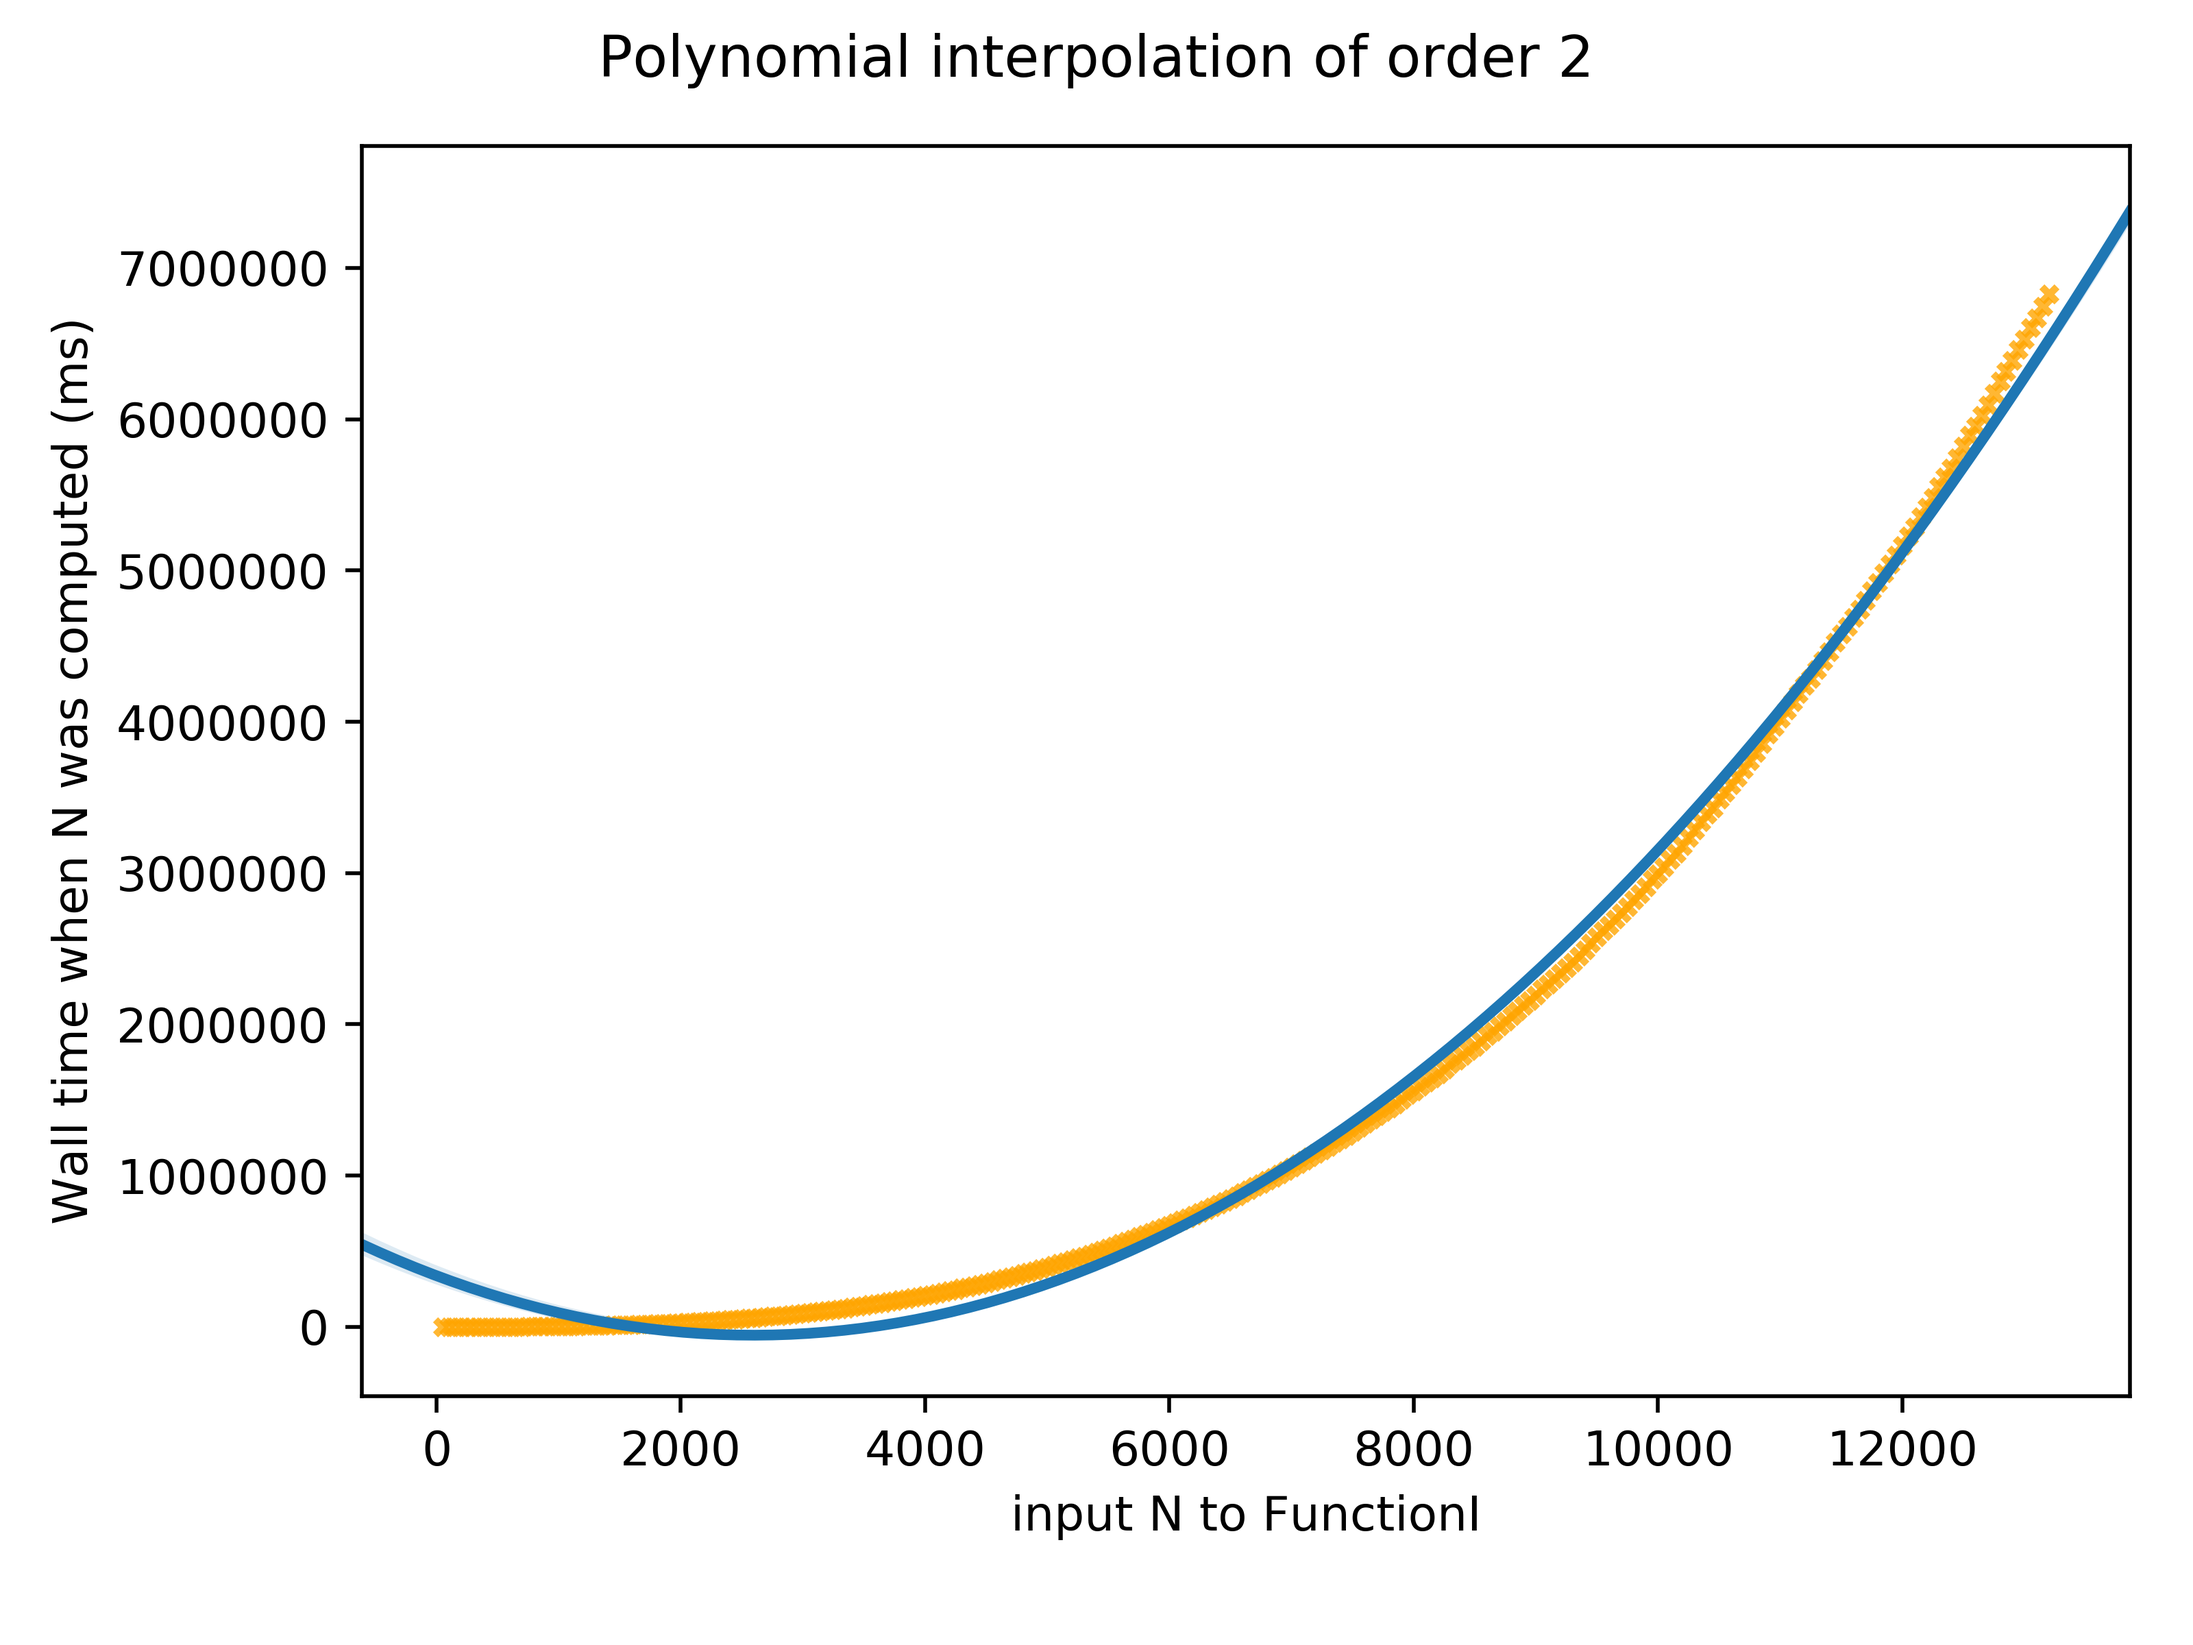
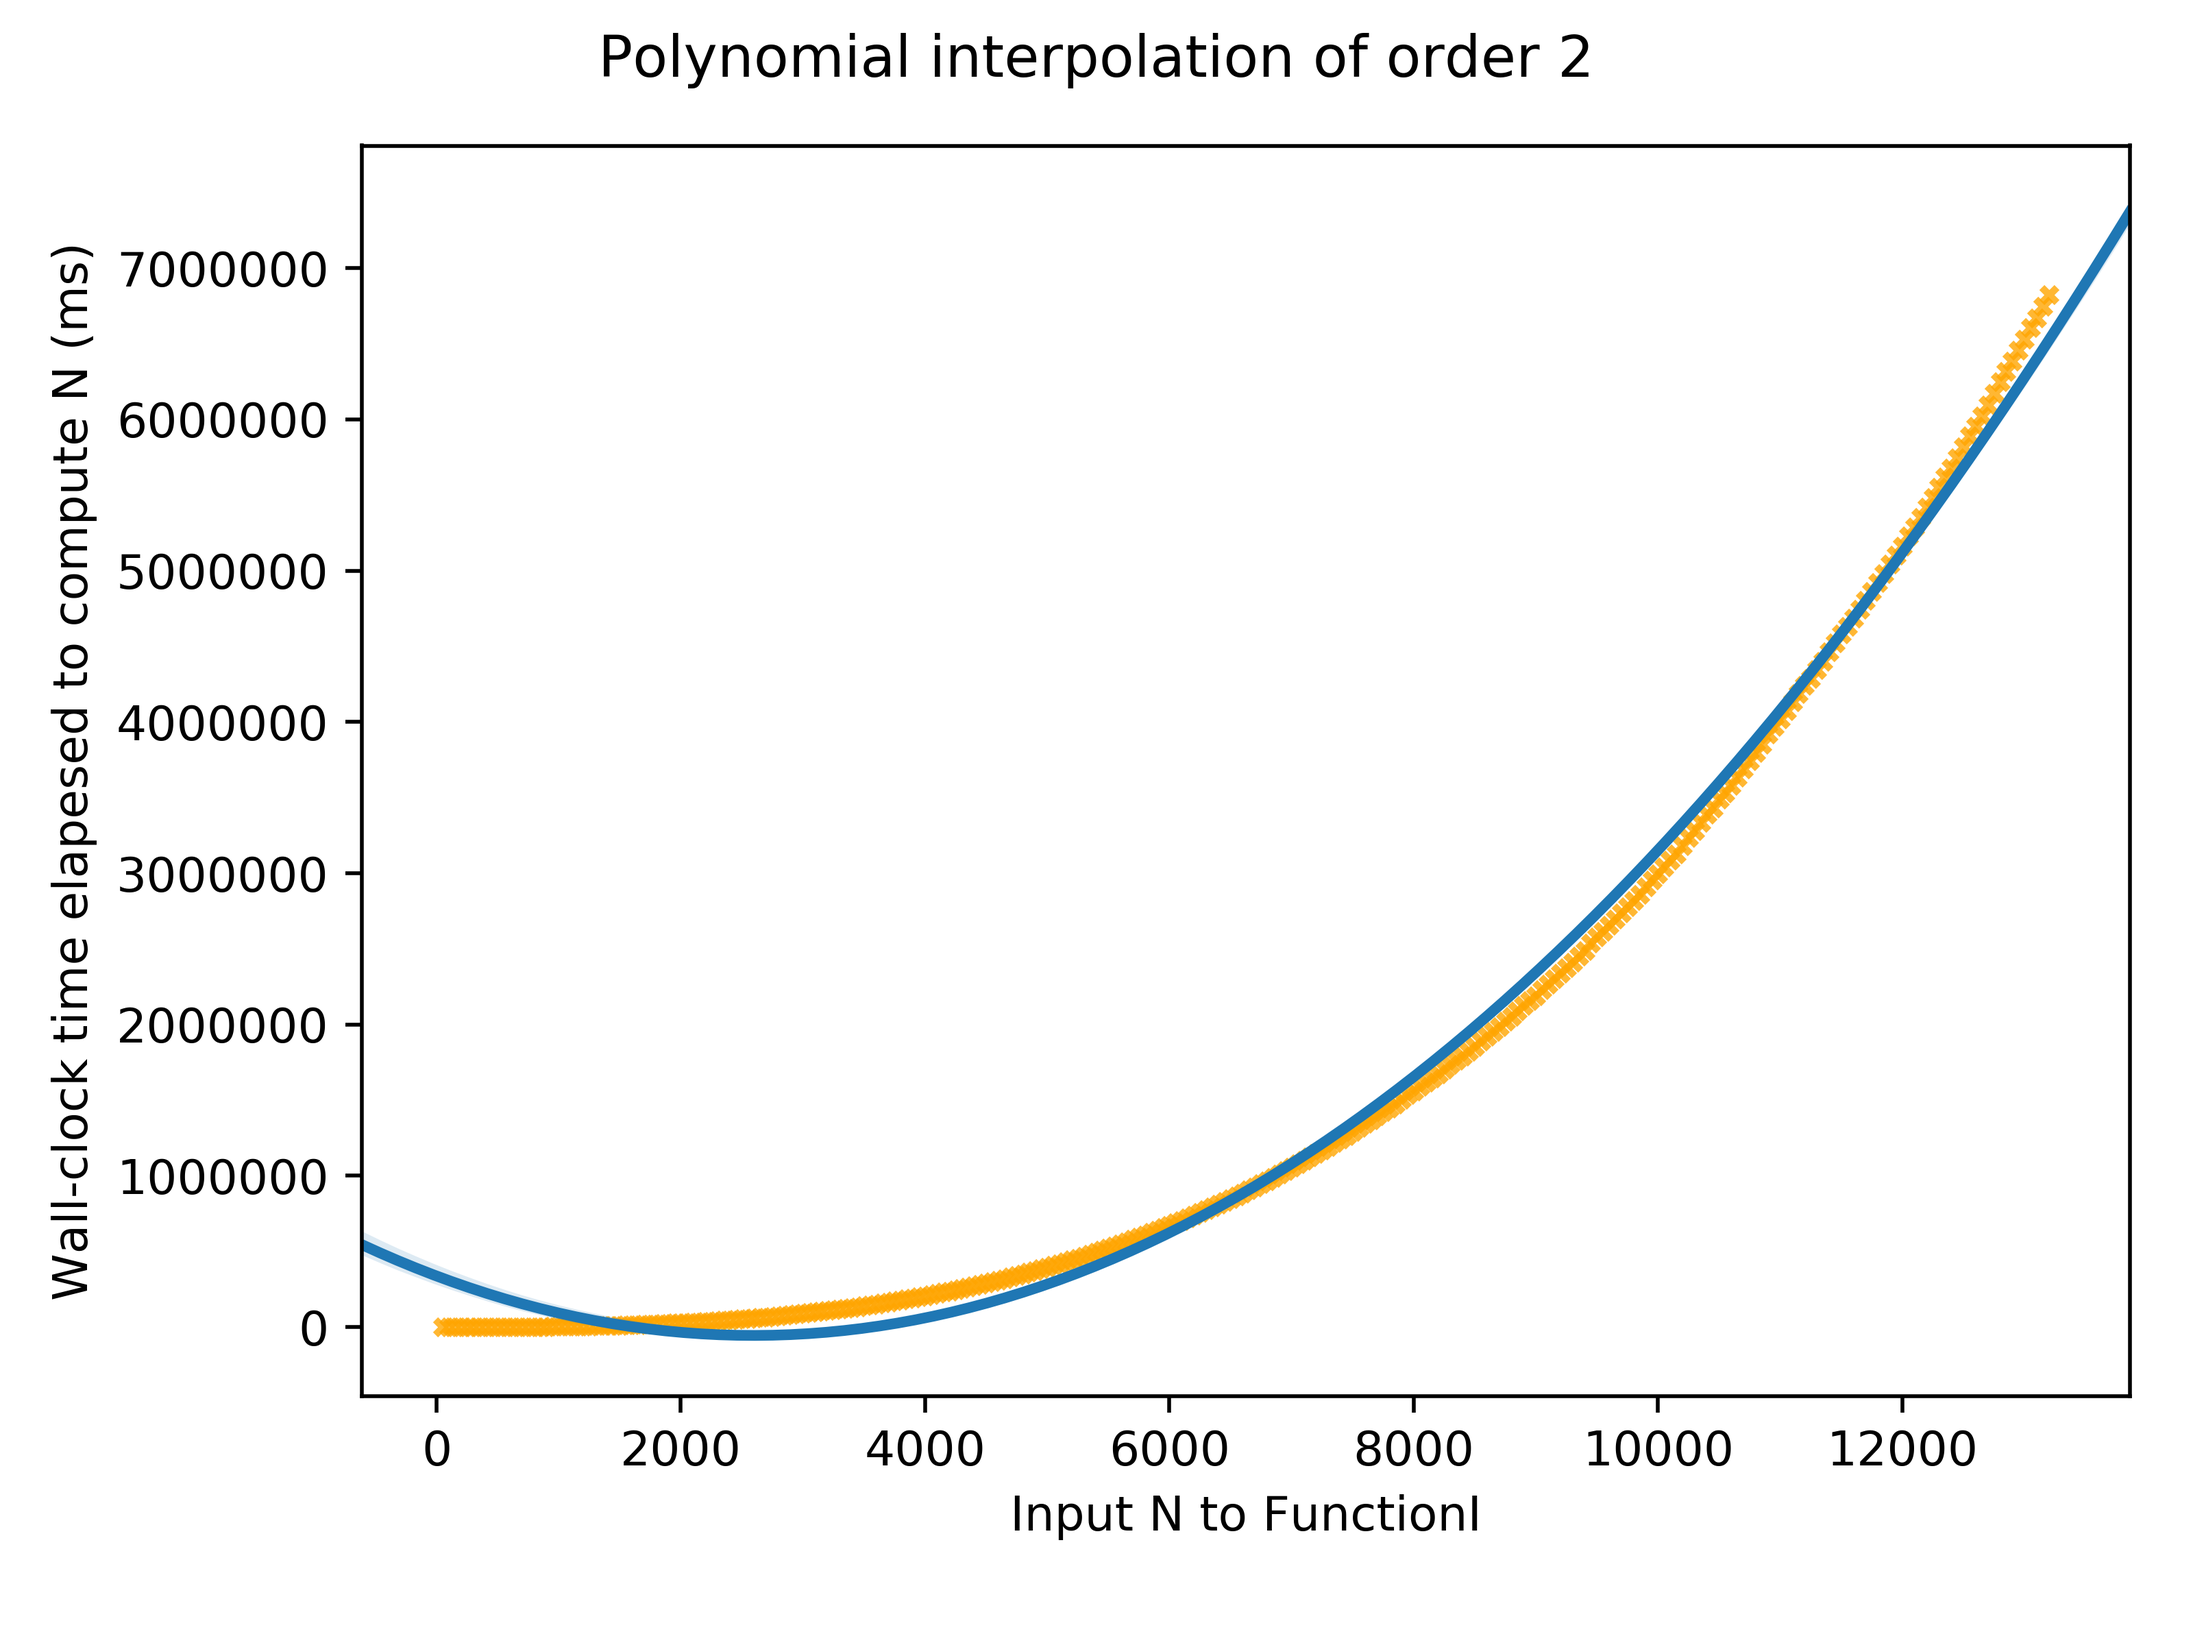
[project euler]: p0451: added readme; improved plotting slightly

Changed region(s): [[0.0312, 0.1562, 0.0625, 0.7812]]

diff --git a/code/project_euler/id_0451/plot_modular_inverses_data.py b/code/project_euler/id_0451/plot_modular_inverses_data.py
@@ -1,7 +1,7 @@
 """Plot the profile of our current FunctionI function.
 
 Data was obtained by:
-`scala ./modular_inverses.scala > data.txt`
+`scala ./modular_inverses.scala > modular_inverses_data.txt`
 
 Referent to code of './modular_inverses.scala' in:
 Git commit:
@@ -43,8 +43,8 @@ def main():
                                  "color": "orange",
                                  })
         fig.suptitle('Polynomial interpolation of order ' + str(INTERP_ORDER))
-        ax.set_xlabel('input N to FunctionI')
-        ax.set_ylabel('Wall time when N was computed (ms)')
+        ax.set_xlabel('Input N to FunctionI')
+        ax.set_ylabel('Wall-clock time elapesed to compute N (ms)')
 
         # import ipdb; ipdb.set_trace()  # XXX BREAKPOINT
         fig.tight_layout(rect=[0, 0.03, 1, 0.95])

diff --git a/code/project_euler/id_0451/readme.md b/code/project_euler/id_0451/readme.md
@@ -1,0 +1,31 @@
+# Problem 451: Modular inverses
+
+## Runtime
+
+* As of 2018-01-27 (commit `aa9369e`) the code runs in `O(n^3)`. That due to the following function call structure:
+
+        FunctionI -> GetNEqualsModInvN -> GetFactors
+          O(k)         O(n)                 O(n)
+                                       -> GetModularInverse
+                                            O(n)
+                                       -> GetModularInverse
+                                            O(n)
+        ===================================================
+          O(k)   x     O(n)       x         O(n)
+        ===================================================
+          O(n^2)
+
+    Since the problem asks one to calculate n calls to `FunctionI` one has an overall complexity of **O(n^3)**. The accompanying file:
+
+    ![Legend: Polynomial fit of order 3 fits the experimental data perfectly.](./modular_inverses_time_polyorder3.png)
+
+    ![Legend: Polynomial fit of order 2 provides a worse fit.](./modular_inverses_time_polyorder2.png)
+
+    Supports this hypothesis.
+
+## Improvements
+
+* In the first attempts to solve the problem I used my own reasoning to structure the algorithms. Probably better algorithms exist for this problem.
+* To get this problem done in reasonable time at least one of the `GetNEqualsModInvN` or `GetFactors` should have their performance improved, that is, they should be computed in `O(n)` time.
+
+[comment]: # (# vim: set spell spelllang=en_us fileformat=unix filetype=markdown wrap :)
